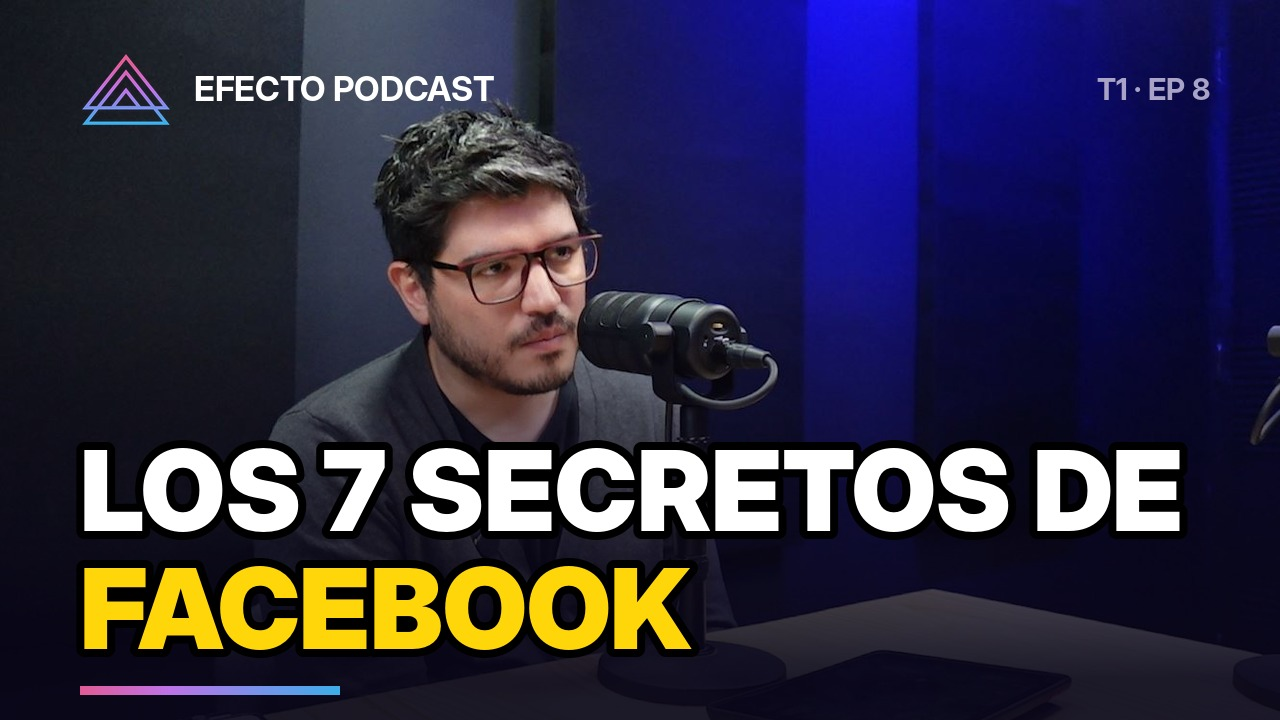
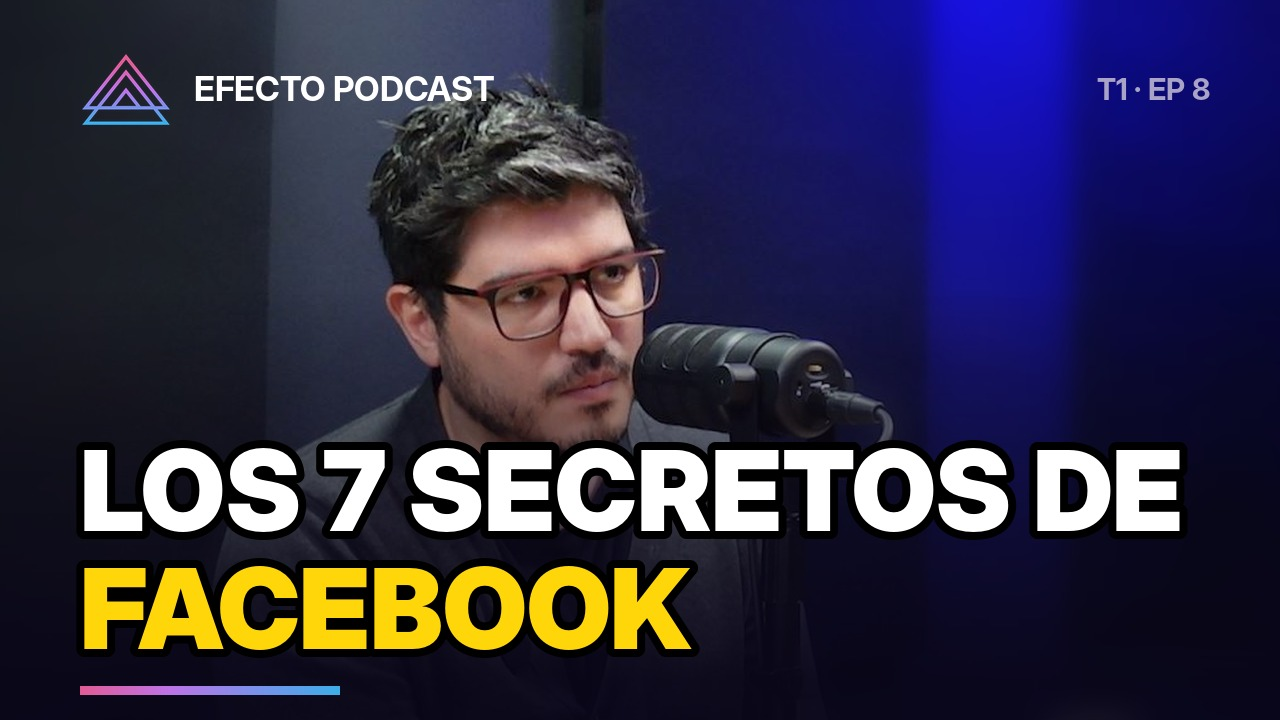
Miniaturas de la temporada 1 con cinco fotos distintas y fondo difuminado
Claude-Session: https://claude.ai/code/session_01FaEEkiVM4pJ5ydfrxSsrku

diff --git a/scripts/miniaturas.py b/scripts/miniaturas.py
@@ -16,23 +16,33 @@ BG = (9, 6, 25)
 WHITE = (255, 255, 255)
 YELLOW = (255, 214, 10)
 MUTED = (169, 164, 199)
-PHOTO = ROOT / "content" / "miniaturas" / "fuente" / "felipe-estudio.jpg"
+PHOTOS = ROOT / "content" / "miniaturas" / "fuente"
 GRAD = [(225, 92, 150), (192, 114, 231), (124, 145, 235), (60, 174, 234)]
 
+# (video, número, frase, foto, zoom). Cada foto se usa en dos o tres episodios con distinto encuadre.
 EPISODES = [
-    ("wYvn_DWpl18", 1, "HACKEANDO LA MÚSICA CON [IA]"),
-    ("4cBSKxJolHc", 2, "DE LA PERSEVERANCIA A [MARTE]"),
-    ("p79_GEB515o", 3, "¿UN CHIP EN TU [CEREBRO]?"),
-    ("YbI-3aQ7OR8", 4, "NO MÁS [VENTA DE HUMO] EN MARKETING"),
-    ("n8LxYjIbUCA", 5, "LANZA TU [MVP] HOY MISMO"),
-    ("fCGOkxt7zlU", 6, "EL GOL DE [MESSI] QUE CAMBIÓ UN NEGOCIO"),
-    ("j08Vcm6XAFY", 7, "5 TIPS PARA SER MÁS [PRODUCTIVO]"),
-    ("V4BEdzMjixk", 8, "LOS 7 SECRETOS DE [FACEBOOK]"),
-    ("bXWRxUJOy70", 9, "[FALABELLA] SE ENAMORÓ DE UNA MALA IDEA"),
-    ("QkoM659gN1Q", 10, "¿ESTAMOS LISTOS PARA TANTA [TECNOLOGÍA]?"),
-    ("mwaXlEqnlzQ", 11, "NO TODO ES [SABER]"),
-    ("NF46uDl243M", 12, "¡CRINGE! QUE NO TE FRENE EL [QUÉ DIRÁN]"),
+    ("wYvn_DWpl18", 1, "HACKEANDO LA MÚSICA CON [IA]", "chaleco", 1.0),
+    ("4cBSKxJolHc", 2, "DE LA PERSEVERANCIA A [MARTE]", "camisa-beige", 1.0),
+    ("p79_GEB515o", 3, "¿UN CHIP EN TU [CEREBRO]?", "camisa-celeste", 1.0),
+    ("YbI-3aQ7OR8", 4, "NO MÁS [VENTA DE HUMO] EN MARKETING", "polera-gris", 1.0),
+    ("n8LxYjIbUCA", 5, "LANZA TU [MVP] HOY MISMO", "camisa-rayas", 1.0),
+    ("fCGOkxt7zlU", 6, "EL GOL DE [MESSI] QUE CAMBIÓ UN NEGOCIO", "polera-gris", 1.3),
+    ("j08Vcm6XAFY", 7, "5 TIPS PARA SER MÁS [PRODUCTIVO]", "camisa-beige", 1.3),
+    ("V4BEdzMjixk", 8, "LOS 7 SECRETOS DE [FACEBOOK]", "chaleco", 1.3),
+    ("bXWRxUJOy70", 9, "[FALABELLA] SE ENAMORÓ DE UNA MALA IDEA", "camisa-rayas", 1.3),
+    ("QkoM659gN1Q", 10, "¿ESTAMOS LISTOS PARA TANTA [TECNOLOGÍA]?", "camisa-celeste", 1.3),
+    ("mwaXlEqnlzQ", 11, "NO TODO ES [SABER]", "chaleco", 1.15),
+    ("NF46uDl243M", 12, "¡CRINGE! QUE NO TE FRENE EL [QUÉ DIRÁN]", "polera-gris", 1.15),
 ]
+
+# Posición de la cara en cada foto (fracción del ancho y del alto), para encuadrar.
+FACES = {
+    "chaleco": (0.394, 0.38),
+    "camisa-beige": (0.388, 0.34),
+    "polera-gris": (0.368, 0.34),
+    "camisa-celeste": (0.389, 0.31),
+    "camisa-rayas": (0.331, 0.30),
+}
 
 
 def gradient_color(t):
@@ -42,17 +52,36 @@ def gradient_color(t):
     return tuple(round(a[k] + (b[k] - a[k]) * f) for k in range(3))
 
 
-def photo_background():
-    """La foto cubre todo el cuadro; abajo se oscurece para que el texto se lea."""
-    photo = Image.open(PHOTO).convert("RGB")
-    scale = max(W / photo.width, H / photo.height)
+def photo_background(name, zoom):
+    """Foto encuadrada en la cara, con el fondo difuminado y oscurecida abajo para el texto."""
+    photo = Image.open(PHOTOS / f"felipe-{name}.jpg").convert("RGB")
+    scale = max(W / photo.width, H / photo.height) * zoom
     photo = photo.resize((round(photo.width * scale), round(photo.height * scale)), Image.LANCZOS)
-    img = photo.crop((0, 0, W, H))
+    fx, fy = FACES[name]
+    left = min(max(0, round(fx * photo.width - 0.42 * W)), photo.width - W)
+    # Con más zoom la cara baja un poco, para que la cabeza no choque con el logo.
+    top = min(max(0, round(fy * photo.height - (0.38 + 0.15 * (zoom - 1)) * H)), photo.height - H)
+    img = photo.crop((left, top, left + W, top + H))
+    face = (fx * photo.width - left, fy * photo.height - top)
+
+    # Difuminado: la persona queda nítida y el resto del estudio se suaviza.
+    sharp = Image.new("L", (W, H), 0)
+    rx, ry = 300 * zoom, 380 * zoom
+    cx, cy = face[0], face[1] + 110 * zoom
+    ImageDraw.Draw(sharp).ellipse((cx - rx, cy - ry, cx + rx, cy + ry), fill=255)
+    sharp = sharp.filter(ImageFilter.GaussianBlur(110))
+    img = Image.composite(img, img.filter(ImageFilter.GaussianBlur(14)), sharp)
+
+    # Viñeta suave y degradado oscuro abajo.
     shade = Image.new("L", (W, H), 0)
     d = ImageDraw.Draw(shade)
-    top = int(H * 0.38)
-    for yy in range(top, H):
-        d.line([(0, yy), (W, yy)], fill=min(235, int(255 * ((yy - top) / (H - top)) ** 0.8)))
+    top_fade = int(H * 0.40)
+    for yy in range(top_fade, H):
+        d.line([(0, yy), (W, yy)], fill=min(235, int(255 * ((yy - top_fade) / (H - top_fade)) ** 0.8)))
+    vignette = Image.new("L", (W, H), 150)
+    ImageDraw.Draw(vignette).ellipse((-120, -160, W + 120, H + 60), fill=0)
+    vignette = vignette.filter(ImageFilter.GaussianBlur(140))
+    shade = Image.fromarray(__import__("numpy").maximum(__import__("numpy").array(shade), __import__("numpy").array(vignette)))
     return Image.composite(Image.new("RGB", (W, H), BG), img, shade)
 
 
@@ -89,8 +118,8 @@ def layout(words, font, max_w, draw):
     return lines + [line]
 
 
-def render(vid, number, text, logo):
-    img = photo_background() if PHOTO.exists() else background()
+def render(vid, number, text, photo, zoom, logo):
+    img = photo_background(photo, zoom) if photo else background()
     draw = ImageDraw.Draw(img)
     words = tokens(text)
     max_w, x = 1120, 80
@@ -132,8 +161,8 @@ def render(vid, number, text, logo):
 
 def main():
     logo = Image.open(ROOT / "static" / "img" / "logo.png").convert("RGBA")
-    for vid, number, text in EPISODES:
-        print(render(vid, number, text, logo).name)
+    for vid, number, text, photo, zoom in EPISODES:
+        print(render(vid, number, text, photo, zoom, logo).name)
 
 
 if __name__ == "__main__":
